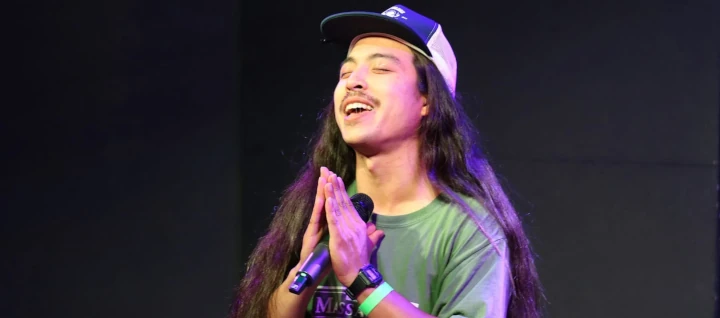
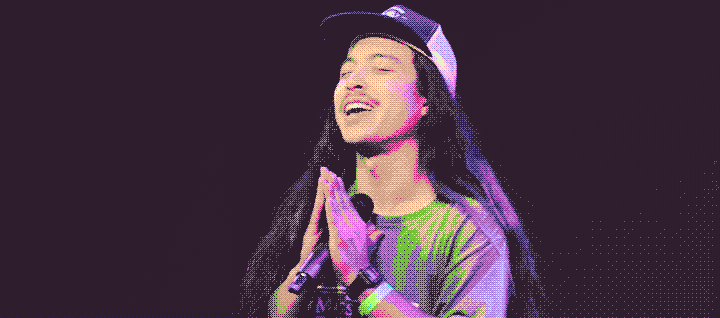
lol

diff --git a/styles.css b/styles.css
@@ -1,1 +1,1 @@
-#skip a,.hero,.mastodon-embed,.social-item,.sr-only{overflow:hidden}#skip a,.sr-only{position:absolute}.notfound-body{min-height:100vh;display:flex;flex-direction:column;justify-content:space-evenly;align-items:center;background:var(--hacker-black,#0a0a0a);color:var(--terminal-green,#2ecc40)}.notfound-container{background:var(--hacker-gray);border:2px solid var(--neon-green);border-radius:8px;padding:2.5rem 2rem;box-shadow:0 8px 32px rgba(0,0,0,.5);text-align:center;max-width:500px}.notfound-container h1{font-size:3rem;margin-bottom:.5em;color:var(--neon-green);background:var(--hacker-gray)}.ascii-art,.notfound-container p{background:var(--hacker-gray);margin-bottom:1.5em}.notfound-container p{color:var(--terminal-green);font-size:1.2rem}.notfound-container a{color:var(--cyber-blue);background:var(--hacker-gray);border-bottom:1px dotted var(--cyber-blue)}.notfound-container a:focus,.notfound-container a:hover{color:var(--neon-green);border-bottom-color:var(--neon-green);background:var(--hacker-gray)}.ascii-art{color:var(--warning-amber);font-size:1.1rem;white-space:pre}.pgp-pre{font-size:x-small}.waverss{color:#ccc;font-size:10px;text-align:right;width:230px}.wr{word-wrap:break-word;font-size:xx-small}.blog-post img{width:auto}.sr-only{height:1px;margin:-1px;padding:0;width:1px;clip:rect(0,0,0,0);border:0}.hide,.no-js .latest-toot,.no-js .melon,.no-js .melons,.no-js .no-js-search,.no-js .octo,.no-js .social-item.status,.no-js .swatch,.no-js form{display:none}#skip a,.breadcrumb-item,.breadcrumb-list,.cssjoy2,.gallery img,.masto1,.shelf,code{display:flex}.increment{background:url(/assets/artwork/bg.gif)}.bucket,.more-details summary{width:100%}#onlinewire-webring a,.breadcrumb-item a,.masto1,.nav-links a,.webring-title-link,a,nav a{text-decoration:none}.eightthree,.webring-img{image-rendering:pixelated}.nav-links li{flex:auto}.no-bullet-item{float:none}.cssjoy1{border:2px outset;text-align:center}.cssjoy{flex:1;margin:0;padding:.1em;border:2px inset}.bucket{height:3rem;border:none}ul li{float:left}.shelf{height:175px;width:941px;z-index:9}.shelf,.stuffonshelf{margin-left:auto;margin-right:auto;position:relative}.stuffonshelf{align-items:flex-end;display:flex;justify-content:center;margin-bottom:-80px;width:770px;z-index:10}.example{height:200px}.example,.example2{background-color:#f0f;padding:5px;width:200px}.example2{height:300px}web-ring{--ring-background:#2a2a2a;--ring-anchor:#00ff41;--ring-text-color:#f0f0f0;--ring-width:90%;--ring-highlight:#ff0;--ring-rule:2px dotted}.tau{margin-top:-25px;text-align:right}.h-card-style,.nav-header,.social-item,body{text-align:center}.mastodon-embed{background:#fcf8ff;border:1px solid #c9c4da;border-radius:8px;margin:auto;max-width:540px;min-width:100px;padding:0}.masto1{color:#1c1a25;flex-direction:column;font-family:system-ui,-apple-system,BlinkMacSystemFont,Segoe UI,Oxygen,Ubuntu,Cantarell,Fira Sans,Droid Sans,Helvetica Neue,Roboto,sans-serif;font-size:14px;justify-content:center;letter-spacing:.25px;line-height:20px;padding:24px}.masto2{color:#787588;margin-top:16px}.masto3{font-weight:500}.gallery{display:grid;gap:10px;grid-template-columns:repeat(auto-fill,minmax(200px,1fr));margin:0 auto;width:800px}.gallery img{height:150px;object-fit:cover;width:100%}.gallery>div:focus img,.gallery>div:hover img{object-fit:contain;transform:scale(2.5)}#skip a{background:var(--background);color:var(--link);left:0;padding:5px;top:-1000px;z-index:1}#skip a,#skip a:focus{transition:top .5s}#skip a:focus{top:0}.safontz{display:grid;justify-content:center;margin:1em}#statuscafe,.blog-post a.p-author,.breadcrumb-item a,.breadcrumb-item a:focus,.breadcrumb-item a:hover,.button-link,.hero,.more-details,.nav-header,.nav-links,.nav-links a,footer,h3,h4,nav,nav a{background-color:var(--hacker-gray)}.about-section h2,.about-section h3,.breadcrumb-nav,.button-link,.more-details,.nav-links a,.social-grid h2,a,code,footer,nav{font-family:JetBrains Mono,monospace}.social-item,body,code,footer,h4,nav{color:var(--text-primary)}.nav-links a,.social-item{position:relative}@font-face{font-display:swap;font-family:JetBrains Mono;font-style:normal;font-weight:400;src:url(/fonts/JetBrainsMono-Regular.woff2) format("woff2")}@font-face{font-display:swap;font-family:JetBrains Mono;font-style:normal;font-weight:700;src:url(/fonts/JetBrainsMono-Bold.woff2) format("woff2")}@font-face{font-display:swap;font-family:Ubuntu Mono;font-style:normal;font-weight:400;src:url(/fonts/UbuntuSansMono-Regular.woff2) format("woff2")}:root{--hacker-black:#0a0a0a;--hacker-dark:#1a1a1a;--hacker-gray:#2a2a2a;--neon-green:#00ff41;--terminal-green:#00d932;--cyber-blue:#3584e4;--warning-amber:#ffb700;--indigo:#5c5cff;--purple:#a259f7;--error-red:#e01b24;--text-primary:#f0f0f0;--text-secondary:#b3b3b3;--link:#000;--background:#fff}.nav-header,.nav-links,.nav-links a,footer,h3,header,nav a{color:var(--neon-green)}body,code,header{background-color:var(--hacker-black)}.about-section h2,.about-section h3,.social-grid h2,a,a:focus,a:hover{background-color:var(--hacker-gray);color:var(--neon-green)}body{background-image:linear-gradient(to bottom,var(--hacker-black),var(--hacker-dark));font-family:Ubuntu Mono,monospace;line-height:1.6;transition:background .3s,color .3s}img{height:auto;max-width:100%}code{border-left:3px solid var(--terminal-green);flex-wrap:wrap;justify-content:center;padding:.5em}a{border-bottom:1px dotted var(--cyber-blue);transition:.2s}a:focus,a:hover{border-bottom-color:var(--terminal-green)}.social-grid{background:var(--hacker-dark);border-radius:8px;box-sizing:border-box;display:grid;gap:1em;grid-template-columns:repeat(auto-fit,minmax(220px,1fr));margin:.5em auto .25em;padding:1em;width:100%}.about-section,.blog-post,.breadcrumb-nav,.h-card-style,.social-item{background:var(--hacker-gray)}.social-item{border:1px solid;border-radius:6px;box-shadow:0 1px 4px rgb(0 0 0/.08);cursor:pointer;display:flex;flex-direction:column;justify-content:center;padding:1em;transition:transform .3s,box-shadow .3s}.social-item:focus,.social-item:hover{border-color:var(--neon-green);box-shadow:0 10px 20px rgb(0 0 0/.2);transform:translateY(-5px)}.liberapay-container{display:flex;flex-wrap:wrap;gap:1rem;justify-content:center;margin:1rem 0}.button-link,.more-details{border:1px solid var(--terminal-green);color:var(--terminal-green);cursor:pointer;display:flex;flex-direction:column;font-size:clamp(1rem,2vw,2rem);justify-content:center;margin:16px;padding:.5em 1em;transition:.2s}.button-link:focus,.button-link:hover{background:var(--terminal-green);color:var(--hacker-black)}.nav-header{display:flex;flex-direction:row;margin:.5em}.bottom-nav,.top-nav{border-radius:4px;border:1px solid var(--neon-green);box-shadow:0 0 10px rgb(57 255 20/.2);flex-direction:column;margin:auto}.nav-links,.nav-links a{margin:.5em 1em;display:flex}.nav-header{justify-content:center;width:90%}.site-title{font-weight:700;letter-spacing:1px}.nav-links{flex-wrap:wrap;flex-direction:row}.nav-links a{border:1px solid transparent;flex-direction:row;font-weight:700;transition:.2s;flex:auto}.nav-links a:focus,.nav-links a:hover,nav a:focus,nav a:hover{background-color:var(--hacker-gray);border-color:var(--terminal-green);color:var(--neon-green);text-shadow:0 0 5px rgb(57 255 20/.5)}.nav-links a:after,nav a:after{background-color:var(--neon-green);bottom:0;color:var(--terminal-green);content:"";height:1px;left:0;position:relative;transform:scaleX(0);transform-origin:bottom right;transition:transform .3s;width:100%}.nav-links a:focus:after,.nav-links a:hover:after,nav a:focus:after,nav a:hover:after{transform:scaleX(1);transform-origin:bottom left}nav a{border:1px solid #fff0;padding:.5rem;transition:.2s}.gumroad,.instagram{border-color:#ff90e8}.amazon,.bitcoin,.blog,.kofi,.mobilizon,.monero,.patreon,.peertube,.pixelfed,.reddit,.rss,.standup{border-color:var(--warning-amber)}.about,.liberapay,.loops,.now,.social,.uses{border-color:#ff0}.editing,.pages,.status,.tour,.tuta,.youtube{border-color:var(--error-red)}.gog,.mastodon,.proton,.reading,.twitch,.wordle{border-color:var(--purple)}.acting,.discord,.interests,.watching,.wishlist{border-color:var(--indigo)}.about,.bluesky,.facebook,.linkedin,.listening,.paypal,.phatsammy,.photography,.pobox,.signal,.spacehey,.telegram,.venmo{border-color:var(--cyber-blue)}.kick,.matrix,.playing,.trovo,.verify,.writing{border-color:var(--terminal-green)}.breadcrumb-nav{border:1px solid;border-radius:4px;color:var(--neon-green);margin:1rem 0;padding:.75rem 1rem}.breadcrumb-list{flex-wrap:wrap;gap:.5rem;list-style:none;margin:0;padding:0}.hero-overlay,.webring-title{justify-content:center;display:flex}.breadcrumb-item:not(:last-child):after{content:">";font-weight:700;margin-left:.5rem}.breadcrumb-item a{border:1px solid #fff0;border-radius:3px;color:var(--neon-green);padding:.25rem .5rem;transition:.2s}.breadcrumb-item a:focus,.breadcrumb-item a:hover{border-color:var(--terminal-green);color:var(--neon-green)}.breadcrumb-item a[aria-current=page]{cursor:default;font-weight:700;pointer-events:none}.about-section,.blog-post,.h-card-style,.video-container{border-radius:8px;color:var(--text-primary)}.h-card-style{box-shadow:0 2px 8px rgb(0 0 0/.1);max-width:350px;padding:1em}.blog-post,.hero-headline{font-family:JetBrains Mono,Ubuntu Mono,monospace;text-align:left}.h-card-style img.u-photo{border-radius:50%;margin:auto;width:120px}.blog-post{border:1px solid var(--neon-green);box-shadow:0 5px 15px rgb(0 0 0/.3);max-width:75vw;padding:2rem 1.5rem;width:fit-content}.blog-post h1{font-size:2rem;margin-bottom:.5rem}.blog-post .meta{font-size:1rem;font-style:italic;margin-bottom:1rem}.blog-post .p-summary{font-weight:700;margin-bottom:1rem}.blog-post .e-content{font-size:1.1rem;line-height:1.7}.blog-post a.p-author{text-decoration:none;transition:color .2s,border-bottom-color .2s;border-bottom:1px dotted var(--cyber-blue);color:var(--neon-green)}.blog-post a.p-author:focus,.blog-post a.p-author:hover{border-bottom-color:var(--neon-green)}@media (prefers-color-scheme:light){:root{--hacker-black:#f5f5f5;--hacker-dark:#e5e5e5;--hacker-gray:#d5d5d5;--neon-green:#008020;--terminal-green:#006b19;--cyber-blue:#1a4272;--warning-amber:#806000;--indigo:#2e2e80;--purple:#512c7b;--error-red:#700d12;--text-primary:#101010;--text-secondary:#4d4d4d;--link:#06c;--background:#fff}}@media (max-width:575.98px){.about-section,.h-card-style{max-width:100%;width:fit-content}.wr{word-wrap:break-word}.hide,.sform{display:none}.breadcrumb-list{gap:.25rem}.hero-overlay{padding:1rem}.hero-overlay h2{font-size:1.2rem}.hero-overlay h3{font-size:1rem}}.hero-overlay{height:100%;left:0;pointer-events:none;position:absolute;top:0;width:100%}.hero-headline{border-radius:12px;font-size:clamp(2.5rem,8vw,6rem);font-weight:700;letter-spacing:.05em;line-height:1.1;padding:.5em 1em;pointer-events:all;text-shadow:0 4px 24px #000,0 1px 0#222}.hero{aspect-ratio:16/9;color:var(--neon-green);margin:auto auto 1em;max-height:80vh;min-height:300px;position:relative;width:100%}.hero-image{display:flex;height:100%;object-fit:cover;width:100%}.main-container{align-items:flex-start;display:flex;gap:1rem;justify-content:center;margin:auto;max-width:100%;overflow-x:auto;padding:1em}.about-section{flex:1 1 0%;margin:.5em auto .25em;min-width:0;padding:1em}@media (max-width:991.98px){.hide{display:none}.main-container{flex-direction:column;gap:1rem;max-width:98vw}.about-section,.h-card-style{max-width:100%;width:fit-content}}.pod-container,.video-container{background:var(--hacker-dark);box-sizing:border-box;margin:1.5em auto;max-width:800px;height:auto;padding:1em}.as-seen-on img{height:64px;margin:5px 10px;object-fit:contain;vertical-align:middle;width:auto}.video-container{aspect-ratio:16/9;width:100%}.video-container iframe{aspect-ratio:16/9;border:0;border-radius:6px;display:flex;width:100%}.pod-container{width:100%}.pod-container iframe,.wiframe{border:0;border-radius:6px;display:flex;width:100%}@media (max-width:767.98px){.hide{display:none}#onlinewire-webring{margin:0;text-align:center}#onlinewire-webring .webring-content{display:flex;gap:10px;justify-content:center}#onlinewire-webring .webring-info img,#onlinewire-webring .webring-next img,#onlinewire-webring .webring-prev img{image-rendering:pixelated;object-fit:contain}#onlinewire-webring .webring-links{font-size:small;text-align:center}#onlinewire-webring a{color:#8ace00}#onlinewire-webring a:hover{text-decoration:underline}}@media (max-width:1199.98px){.hide{display:none}.main-container{flex-direction:column;gap:1rem;max-width:98vw}.about-section,.h-card-style{max-width:100%;width:fit-content}}#statuscafe{border:1px solid #191970;padding:1em}#statuscafe-username{margin-bottom:.5em}#statuscafe-content{margin:0 1em .5em}.webring-container{margin:0 auto;text-align:center;text-shadow:0 0 4px red;width:100%}.webring-link,.webring-title{background-color:#161616;border:4px ridge gray;margin:0;padding:.1em;text-align:center}.webring-title,.webring-title-link{color:#ff8700}.webring-img{filter:drop-shadow(0 0 4px red);height:12px}.webring-img-left{margin-right:.5em}.webring-img-right{margin-left:.5em}.webring-nav{display:flex;justify-content:center}.webring-link{color:#ffdc60;flex:1}.johnvertisement{border:0;height:94px;max-width:732px;width:100%}.bannerlink{height:60px;max-width:468px;width:100%}.melon{height:100px;width:100px}ol,ul{list-style-type:none}.webgarden{border:0;height:250px;max-width:250px;overflow:hidden;width:100%}
+#skip a,.hero,.mastodon-embed,.social-item,.sr-only{overflow:hidden}#skip a,.sr-only{position:absolute}.notfound-body{min-height:100vh;display:flex;flex-direction:column;justify-content:space-evenly;align-items:center;background:var(--hacker-black,#0a0a0a);color:var(--terminal-green,#2ecc40)}.notfound-container{background:var(--hacker-gray);border:2px solid var(--neon-green);border-radius:8px;padding:2.5rem 2rem;box-shadow:0 8px 32px rgba(0,0,0,.5);text-align:center;max-width:500px}.notfound-container h1{font-size:3rem;margin-bottom:.5em;color:var(--neon-green);background:var(--hacker-gray)}.ascii-art,.notfound-container p{background:var(--hacker-gray);margin-bottom:1.5em}.notfound-container p{color:var(--terminal-green);font-size:1.2rem}.notfound-container a{color:var(--cyber-blue);background:var(--hacker-gray);border-bottom:1px dotted var(--cyber-blue)}.notfound-container a:focus,.notfound-container a:hover{color:var(--neon-green);border-bottom-color:var(--neon-green);background:var(--hacker-gray)}.ascii-art{color:var(--warning-amber);font-size:1.1rem;white-space:pre}.pgp-pre{font-size:x-small}.waverss{color:#ccc;font-size:10px;text-align:right;width:230px}.wr{word-wrap:break-word;font-size:xx-small}.blog-post img{width:auto}.sr-only{height:1px;margin:-1px;padding:0;width:1px;clip:rect(0,0,0,0);border:0}.hide,.no-js .latest-toot,.no-js .melon,.no-js .melons,.no-js .no-js-search,.no-js .octo,.no-js .social-item.status,.no-js .swatch,.no-js form{display:none}#skip a,.breadcrumb-item,.breadcrumb-list,.cssjoy2,.gallery img,.masto1,.shelf,code{display:flex}.increment{background:url(/assets/artwork/bg.gif)}.bucket,.more-details summary{width:100%}#onlinewire-webring a,.breadcrumb-item a,.masto1,.nav-links a,.webring-title-link,a,nav a{text-decoration:none}.eightthree,.webring-img{image-rendering:pixelated}.nav-links li{flex:auto}.no-bullet-item{float:none}.cssjoy1{border:2px outset;text-align:center}.cssjoy{flex:1;margin:0;padding:.1em;border:2px inset}.bucket{height:3rem;border:none}ul li{float:left}.shelf{height:175px;width:941px;z-index:9}.shelf,.stuffonshelf{margin-left:auto;margin-right:auto;position:relative}.stuffonshelf{align-items:flex-end;display:flex;justify-content:center;margin-bottom:-80px;width:770px;z-index:10}.example{height:200px}.example,.example2{background-color:#f0f;padding:5px;width:200px}.example2{height:300px}web-ring{--ring-background:#2a2a2a;--ring-anchor:#00ff41;--ring-text-color:#f0f0f0;--ring-width:90%;--ring-highlight:#ff0;--ring-rule:2px dotted}.tau{margin-top:-25px;text-align:right}.h-card-style,.nav-header,.social-item,body{text-align:center}.mastodon-embed{background:#fcf8ff;border:1px solid #c9c4da;border-radius:8px;margin:auto;max-width:540px;min-width:100px;padding:0}.masto1{color:#1c1a25;flex-direction:column;font-family:system-ui,-apple-system,BlinkMacSystemFont,Segoe UI,Oxygen,Ubuntu,Cantarell,Fira Sans,Droid Sans,Helvetica Neue,Roboto,sans-serif;font-size:14px;justify-content:center;letter-spacing:.25px;line-height:20px;padding:24px}.masto2{color:#787588;margin-top:16px}.masto3{font-weight:500}.gallery{display:grid;gap:10px;grid-template-columns:repeat(auto-fill,minmax(200px,1fr));margin:0 auto;width:800px}.gallery img{height:150px;object-fit:cover;width:100%}.gallery>div:focus img,.gallery>div:hover img{object-fit:contain;transform:scale(2.5)}#skip a{background:var(--background);color:var(--link);left:0;padding:5px;top:-1000px;z-index:1}#skip a,#skip a:focus{transition:top .5s}#skip a:focus{top:0}.safontz{display:grid;justify-content:center;margin:1em}#statuscafe,.blog-post a.p-author,.breadcrumb-item a,.breadcrumb-item a:focus,.breadcrumb-item a:hover,.button-link,.hero,.more-details,.nav-header,.nav-links,.nav-links a,footer,h3,h4,nav,nav a{background-color:var(--hacker-gray)}.about-section h2,.about-section h3,.breadcrumb-nav,.button-link,.more-details,.nav-links a,.social-grid h2,a,code,footer,nav{font-family:JetBrains Mono,monospace}.social-item,body,code,footer,h4,nav{color:var(--text-primary)}.nav-links a,.social-item{position:relative}@font-face{font-display:swap;font-family:JetBrains Mono;font-style:normal;font-weight:400;src:url(/fonts/JetBrainsMono-Regular.woff2) format("woff2")}@font-face{font-display:swap;font-family:JetBrains Mono;font-style:normal;font-weight:700;src:url(/fonts/JetBrainsMono-Bold.woff2) format("woff2")}@font-face{font-display:swap;font-family:Ubuntu Mono;font-style:normal;font-weight:400;src:url(/fonts/UbuntuSansMono-Regular.woff2) format("woff2")}:root{--hacker-black:#0a0a0a;--hacker-dark:#1a1a1a;--hacker-gray:#2a2a2a;--neon-green:#00ff41;--terminal-green:#00d932;--cyber-blue:#3584e4;--warning-amber:#ffb700;--indigo:#5c5cff;--purple:#a259f7;--error-red:#e01b24;--text-primary:#f0f0f0;--text-secondary:#b3b3b3;--link:#000;--background:#fff}.nav-header,.nav-links,.nav-links a,footer,h3,header,nav a{color:var(--neon-green)}body,code,header{background-color:var(--hacker-black)}.about-section h2,.about-section h3,.social-grid h2,a,a:focus,a:hover{background-color:var(--hacker-gray);color:var(--neon-green)}body{background-image:linear-gradient(to bottom,var(--hacker-black),var(--hacker-dark));font-family:Ubuntu Mono,monospace;line-height:1.6;transition:background .3s,color .3s}img{height:auto;max-width:100%}code{border-left:3px solid var(--terminal-green);flex-wrap:wrap;justify-content:center;padding:.5em}a{border-bottom:1px dotted var(--cyber-blue);transition:.2s}a:focus,a:hover{border-bottom-color:var(--terminal-green)}.social-grid{background:var(--hacker-dark);border-radius:8px;box-sizing:border-box;display:grid;gap:1em;grid-template-columns:repeat(auto-fit,minmax(220px,1fr));margin:.5em auto .25em;padding:1em;width:100%}.about-section,.blog-post,.breadcrumb-nav,.h-card-style,.social-item{background:var(--hacker-gray)}.social-item{border:1px solid;border-radius:6px;box-shadow:0 1px 4px rgb(0 0 0/.08);cursor:pointer;display:flex;flex-direction:column;justify-content:center;padding:1em;transition:transform .3s,box-shadow .3s}.social-item:focus,.social-item:hover{border-color:var(--neon-green);box-shadow:0 10px 20px rgb(0 0 0/.2);transform:translateY(-5px)}.liberapay-container{display:flex;flex-wrap:wrap;gap:1rem;justify-content:center;margin:1rem 0}.button-link,.more-details{border:1px solid var(--terminal-green);color:var(--terminal-green);cursor:pointer;display:flex;flex-direction:column;font-size:clamp(1rem,2vw,2rem);justify-content:center;margin:16px;padding:.5em 1em;transition:.2s}.button-link:focus,.button-link:hover{background:var(--terminal-green);color:var(--hacker-black)}.nav-header{display:flex;flex-direction:row;margin:.5em}.bottom-nav,.top-nav{border-radius:4px;border:1px solid var(--neon-green);box-shadow:0 0 10px rgb(57 255 20/.2);flex-direction:column;margin:auto}.nav-links,.nav-links a{margin:.5em 1em;display:flex}.nav-header{justify-content:center;width:90%}.site-title{font-weight:700;letter-spacing:1px}.nav-links{flex-wrap:wrap;flex-direction:row}.nav-links a{border:1px solid transparent;flex-direction:row;font-weight:700;transition:.2s;flex:auto}.nav-links a:focus,.nav-links a:hover,nav a:focus,nav a:hover{background-color:var(--hacker-gray);border-color:var(--terminal-green);color:var(--neon-green);text-shadow:0 0 5px rgb(57 255 20/.5)}.nav-links a:after,nav a:after{background-color:var(--neon-green);bottom:0;color:var(--terminal-green);content:"";height:1px;left:0;position:relative;transform:scaleX(0);transform-origin:bottom right;transition:transform .3s;width:100%}.nav-links a:focus:after,.nav-links a:hover:after,nav a:focus:after,nav a:hover:after{transform:scaleX(1);transform-origin:bottom left}nav a{border:1px solid #fff0;padding:.5rem;transition:.2s}.gumroad,.instagram{border-color:#ff90e8}.amazon,.bitcoin,.blog,.kofi,.mobilizon,.monero,.patreon,.peertube,.pixelfed,.reddit,.rss,.standup{border-color:var(--warning-amber)}.about,.liberapay,.loops,.now,.social,.uses{border-color:#ff0}.editing,.pages,.status,.tour,.tuta,.youtube{border-color:var(--error-red)}.gog,.mastodon,.proton,.reading,.twitch,.wordle{border-color:var(--purple)}.acting,.discord,.interests,.watching,.wishlist{border-color:var(--indigo)}.about,.bluesky,.facebook,.linkedin,.listening,.paypal,.phatsammy,.photography,.pobox,.signal,.spacehey,.telegram,.venmo{border-color:var(--cyber-blue)}.kick,.matrix,.playing,.trovo,.verify,.writing{border-color:var(--terminal-green)}.breadcrumb-nav{border:1px solid;border-radius:4px;color:var(--neon-green);margin:1rem 0;padding:.75rem 1rem}.breadcrumb-list{flex-wrap:wrap;gap:.5rem;list-style:none;margin:0;padding:0}.hero-overlay,.webring-title{justify-content:center;display:flex}.breadcrumb-item:not(:last-child):after{content:">";font-weight:700;margin-left:.5rem}.breadcrumb-item a{border:1px solid #fff0;border-radius:3px;color:var(--neon-green);padding:.25rem .5rem;transition:.2s}.breadcrumb-item a:focus,.breadcrumb-item a:hover{border-color:var(--terminal-green);color:var(--neon-green)}.breadcrumb-item a[aria-current=page]{cursor:default;font-weight:700;pointer-events:none}.about-section,.blog-post,.h-card-style,.video-container{border-radius:8px;color:var(--text-primary)}.h-card-style{box-shadow:0 2px 8px rgb(0 0 0/.1);max-width:350px;padding:1em}.blog-post,.hero-headline{font-family:JetBrains Mono,Ubuntu Mono,monospace;text-align:left}.h-card-style img.u-photo{border-radius:50%;margin:auto;width:120px}.blog-post{border:1px solid var(--neon-green);box-shadow:0 5px 15px rgb(0 0 0/.3);max-width:75vw;padding:2rem 1.5rem;width:fit-content}.blog-post h1{font-size:2rem;margin-bottom:.5rem}.blog-post .meta{font-size:1rem;font-style:italic;margin-bottom:1rem}.blog-post .p-summary{font-weight:700;margin-bottom:1rem}.blog-post .e-content{font-size:1.1rem;line-height:1.7}.blog-post a.p-author{text-decoration:none;transition:color .2s,border-bottom-color .2s;border-bottom:1px dotted var(--cyber-blue);color:var(--neon-green)}.blog-post a.p-author:focus,.blog-post a.p-author:hover{border-bottom-color:var(--neon-green)}@media (prefers-color-scheme:light){:root{--hacker-black:#f5f5f5;--hacker-dark:#e5e5e5;--hacker-gray:#d5d5d5;--neon-green:#008020;--terminal-green:#006b19;--cyber-blue:#1a4272;--warning-amber:#806000;--indigo:#2e2e80;--purple:#512c7b;--error-red:#700d12;--text-primary:#101010;--text-secondary:#4d4d4d;--link:#06c;--background:#fff}}@media (max-width:575.98px){.about-section,.h-card-style{max-width:100%;width:fit-content}.wr{word-wrap:break-word}.hide,.sform{display:none}.breadcrumb-list{gap:.25rem}.hero-overlay{padding:1rem}.hero-overlay h2{font-size:1.2rem}.hero-overlay h3{font-size:1rem}}.hero-overlay{height:100%;left:0;pointer-events:none;position:absolute;top:0;width:100%}.hero-headline{border-radius:12px;font-size:clamp(2.5rem,8vw,6rem);font-weight:700;letter-spacing:.05em;line-height:1.1;padding:.5em 1em;pointer-events:all;text-shadow:0 4px 24px #000,0 1px 0#222}.hero{aspect-ratio:16/9;color:var(--neon-green);margin:auto auto 1em;max-height:80vh;min-height:300px;position:relative;width:100%}.hero-image{display:flex;height:100%;object-fit:cover;width:100%}.main-container{align-items:flex-start;display:flex;gap:1rem;justify-content:center;margin:auto;max-width:100%;overflow-x:auto;padding:1em}.about-section{flex:1 1 0%;margin:.5em auto .25em;min-width:0;padding:1em}@media (max-width:991.98px){.hide{display:none}.main-container{flex-direction:column;gap:1rem;max-width:98vw}.about-section,.h-card-style{max-width:100%;width:fit-content}}.pod-container,.video-container{background:var(--hacker-dark);box-sizing:border-box;margin:1em auto;max-width:800px;height:auto;padding:1em}.as-seen-on img{height:64px;margin:5px 10px;object-fit:contain;vertical-align:middle;width:auto}.video-container{aspect-ratio:16/9;width:90%}.video-container iframe{aspect-ratio:16/9;border:0;border-radius:6px;display:flex;width:100%}.pod-container{width:90%}.pod-container iframe,.wiframe{border:0;border-radius:6px;display:flex;width:100%}@media (max-width:767.98px){.hide{display:none}#onlinewire-webring{margin:0;text-align:center}#onlinewire-webring .webring-content{display:flex;gap:10px;justify-content:center}#onlinewire-webring .webring-info img,#onlinewire-webring .webring-next img,#onlinewire-webring .webring-prev img{image-rendering:pixelated;object-fit:contain}#onlinewire-webring .webring-links{font-size:small;text-align:center}#onlinewire-webring a{color:#8ace00}#onlinewire-webring a:hover{text-decoration:underline}}@media (max-width:1199.98px){.hide{display:none}.main-container{flex-direction:column;gap:1rem;max-width:98vw}.about-section,.h-card-style{max-width:100%;width:fit-content}}#statuscafe{border:1px solid #191970;padding:1em}#statuscafe-username{margin-bottom:.5em}#statuscafe-content{margin:0 1em .5em}.webring-container{margin:0 auto;text-align:center;text-shadow:0 0 4px red;width:100%}.webring-link,.webring-title{background-color:#161616;border:4px ridge gray;margin:0;padding:.1em;text-align:center}.webring-title,.webring-title-link{color:#ff8700}.webring-img{filter:drop-shadow(0 0 4px red);height:12px}.webring-img-left{margin-right:.5em}.webring-img-right{margin-left:.5em}.webring-nav{display:flex;justify-content:center}.webring-link{color:#ffdc60;flex:1}.johnvertisement{border:0;height:94px;max-width:732px;width:100%}.bannerlink{height:60px;max-width:468px;width:100%}.melon{height:100px;width:100px}ol,ul{list-style-type:none}.webgarden{border:0;height:250px;max-width:250px;overflow:hidden;width:100%}

diff --git a/blog.js b/blog.js
@@ -1,0 +1,1 @@
+document.body.classList.remove("no-js"),async function(){try{let t=await (await fetch("/pages/blog/index.html")).text(),e=new DOMParser().parseFromString(t,"text/html").getElementById("latest-blog");document.getElementById("blog-area").innerHTML=e?e.innerHTML:"Content section not found."}catch(n){console.error("Error fetching content:",n),document.getElementById("blog-area").innerHTML="Failed to load content."}}();

diff --git a/pages/work.html b/pages/work.html
@@ -255,8 +255,8 @@
         ]
       }
 </script>
-<script src=/now.js defer></script>
-<link rel=preload href=/now.js as=script>
+<script src=/blog.js defer></script>
+<link rel=preload href=/blog.js as=script>
 <link rel=me href=https://mastodon.social/@alexzeecomedy>
 <link rel=me href=https://bsky.app/profile/alexzeecomedy.com>
 <link rel=me href=https://x.com/alexzeecomedy>
